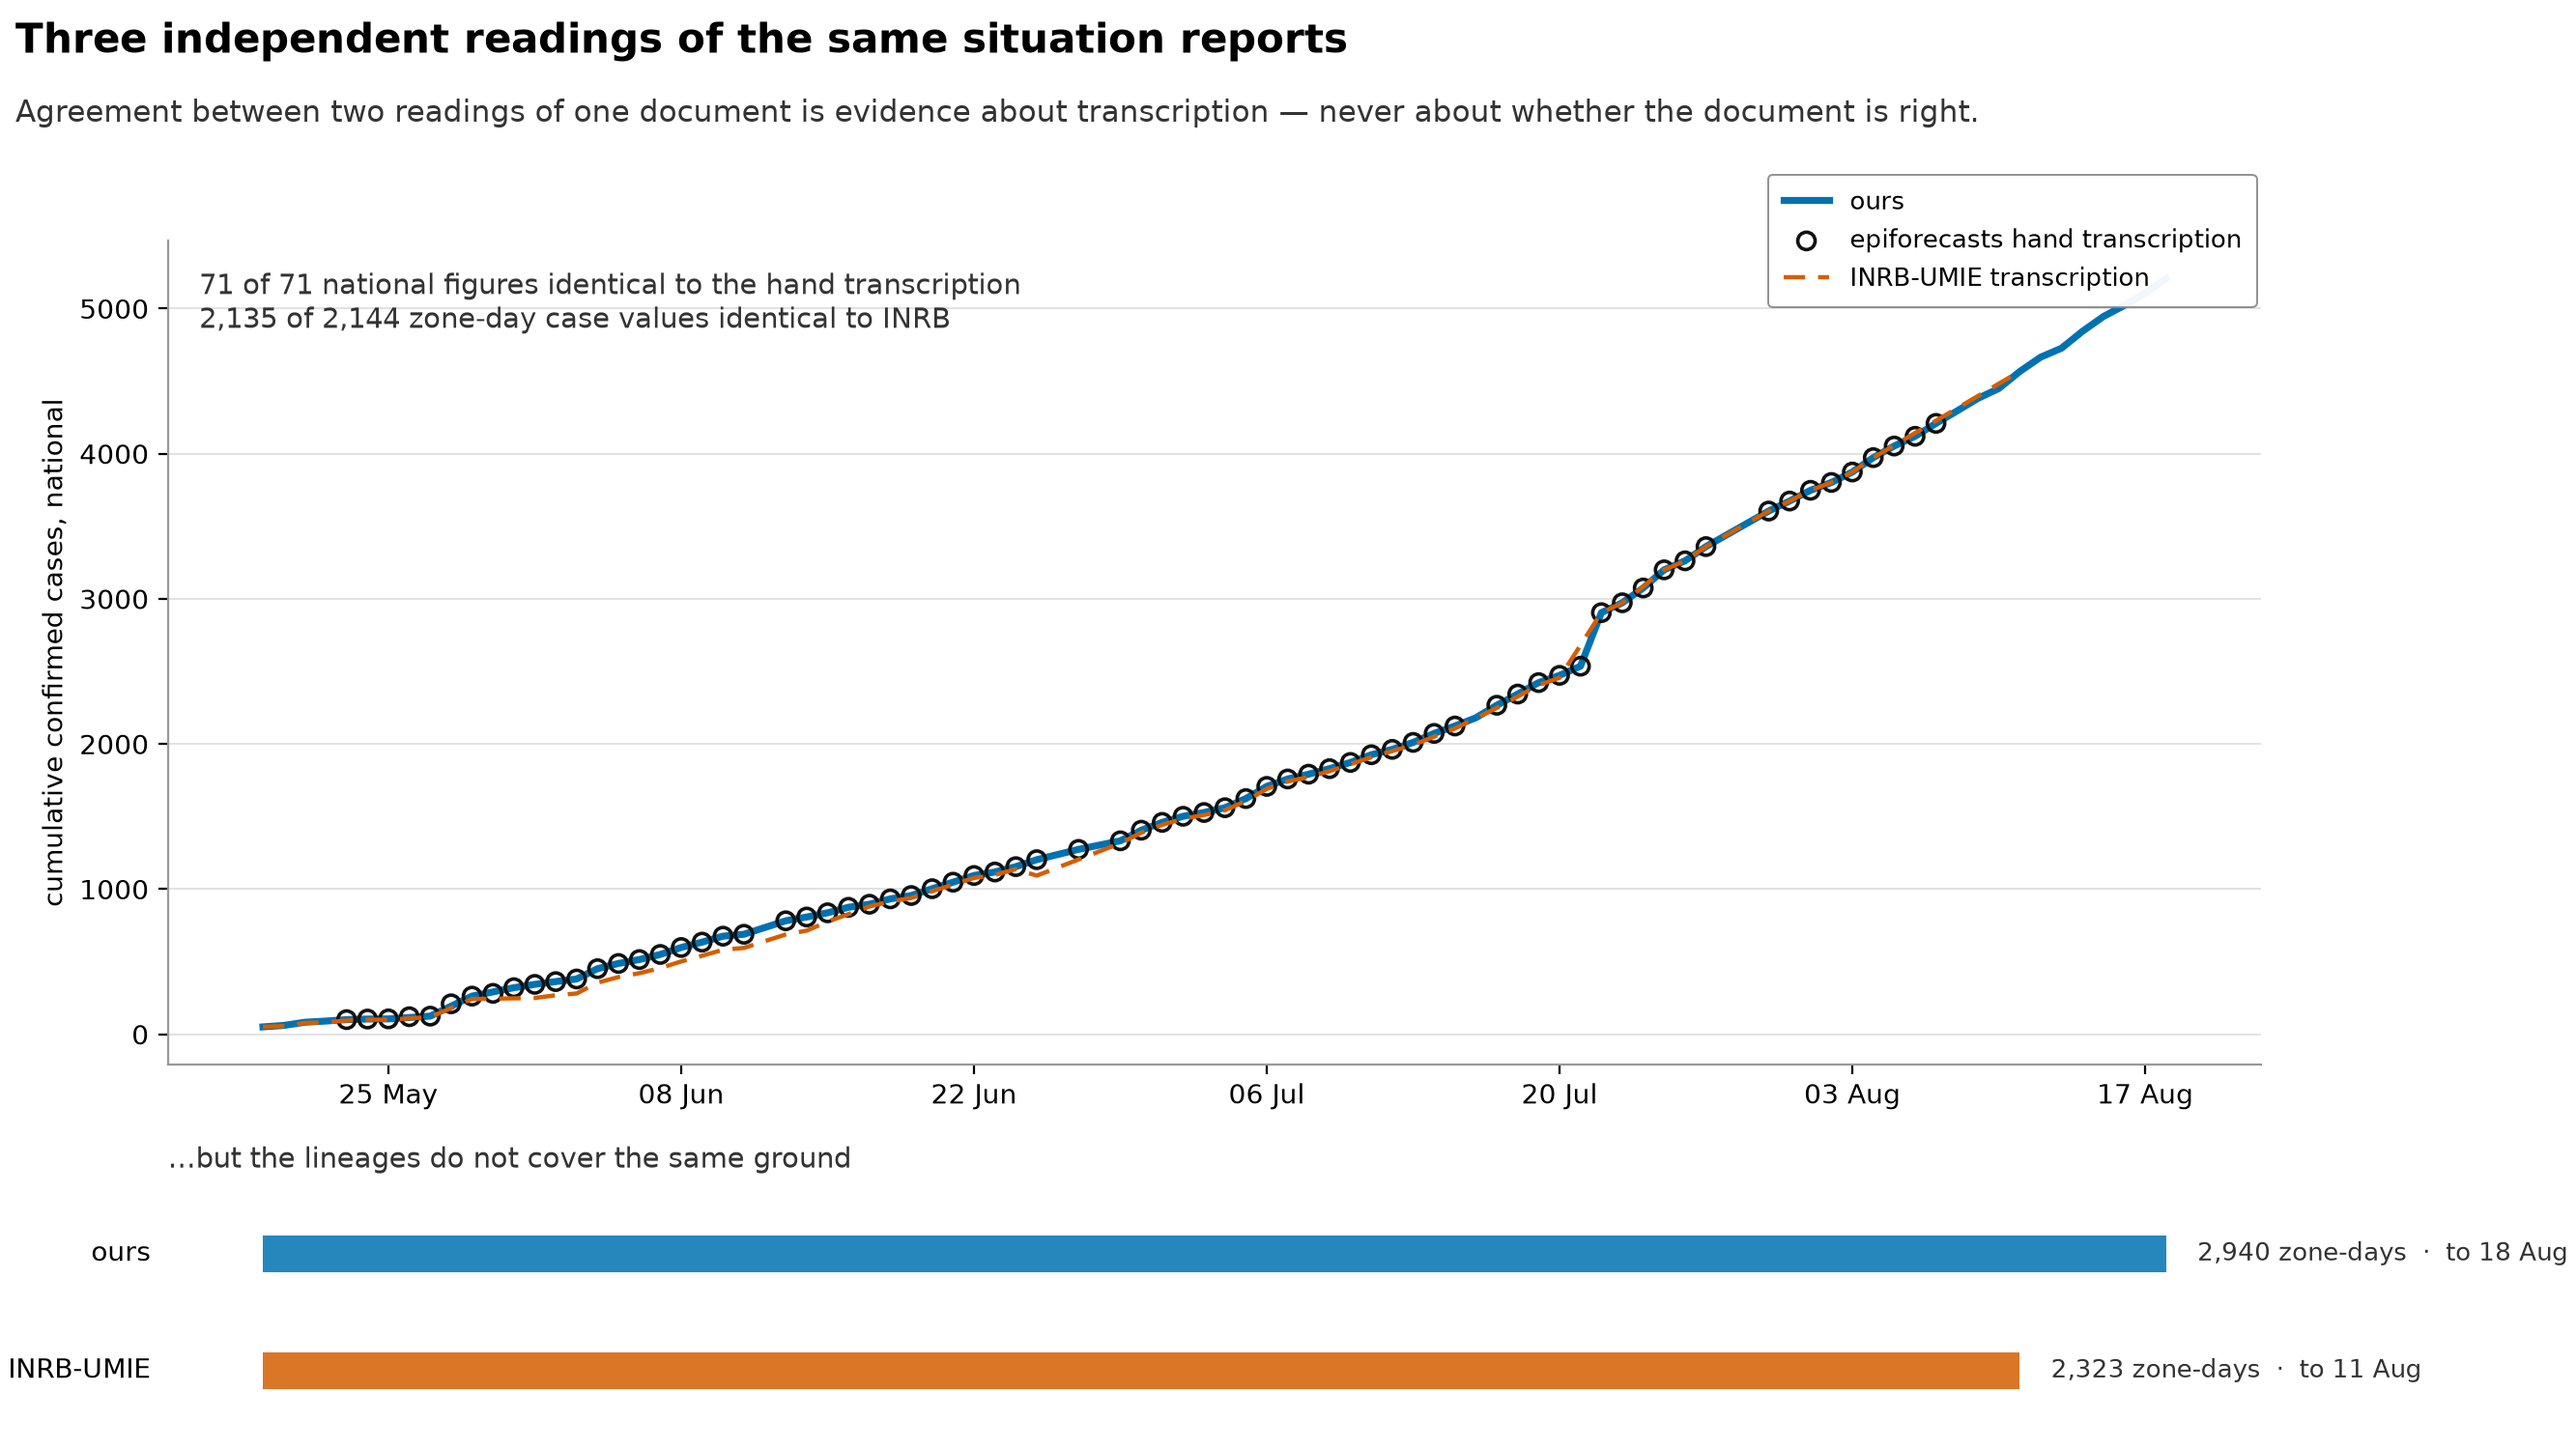
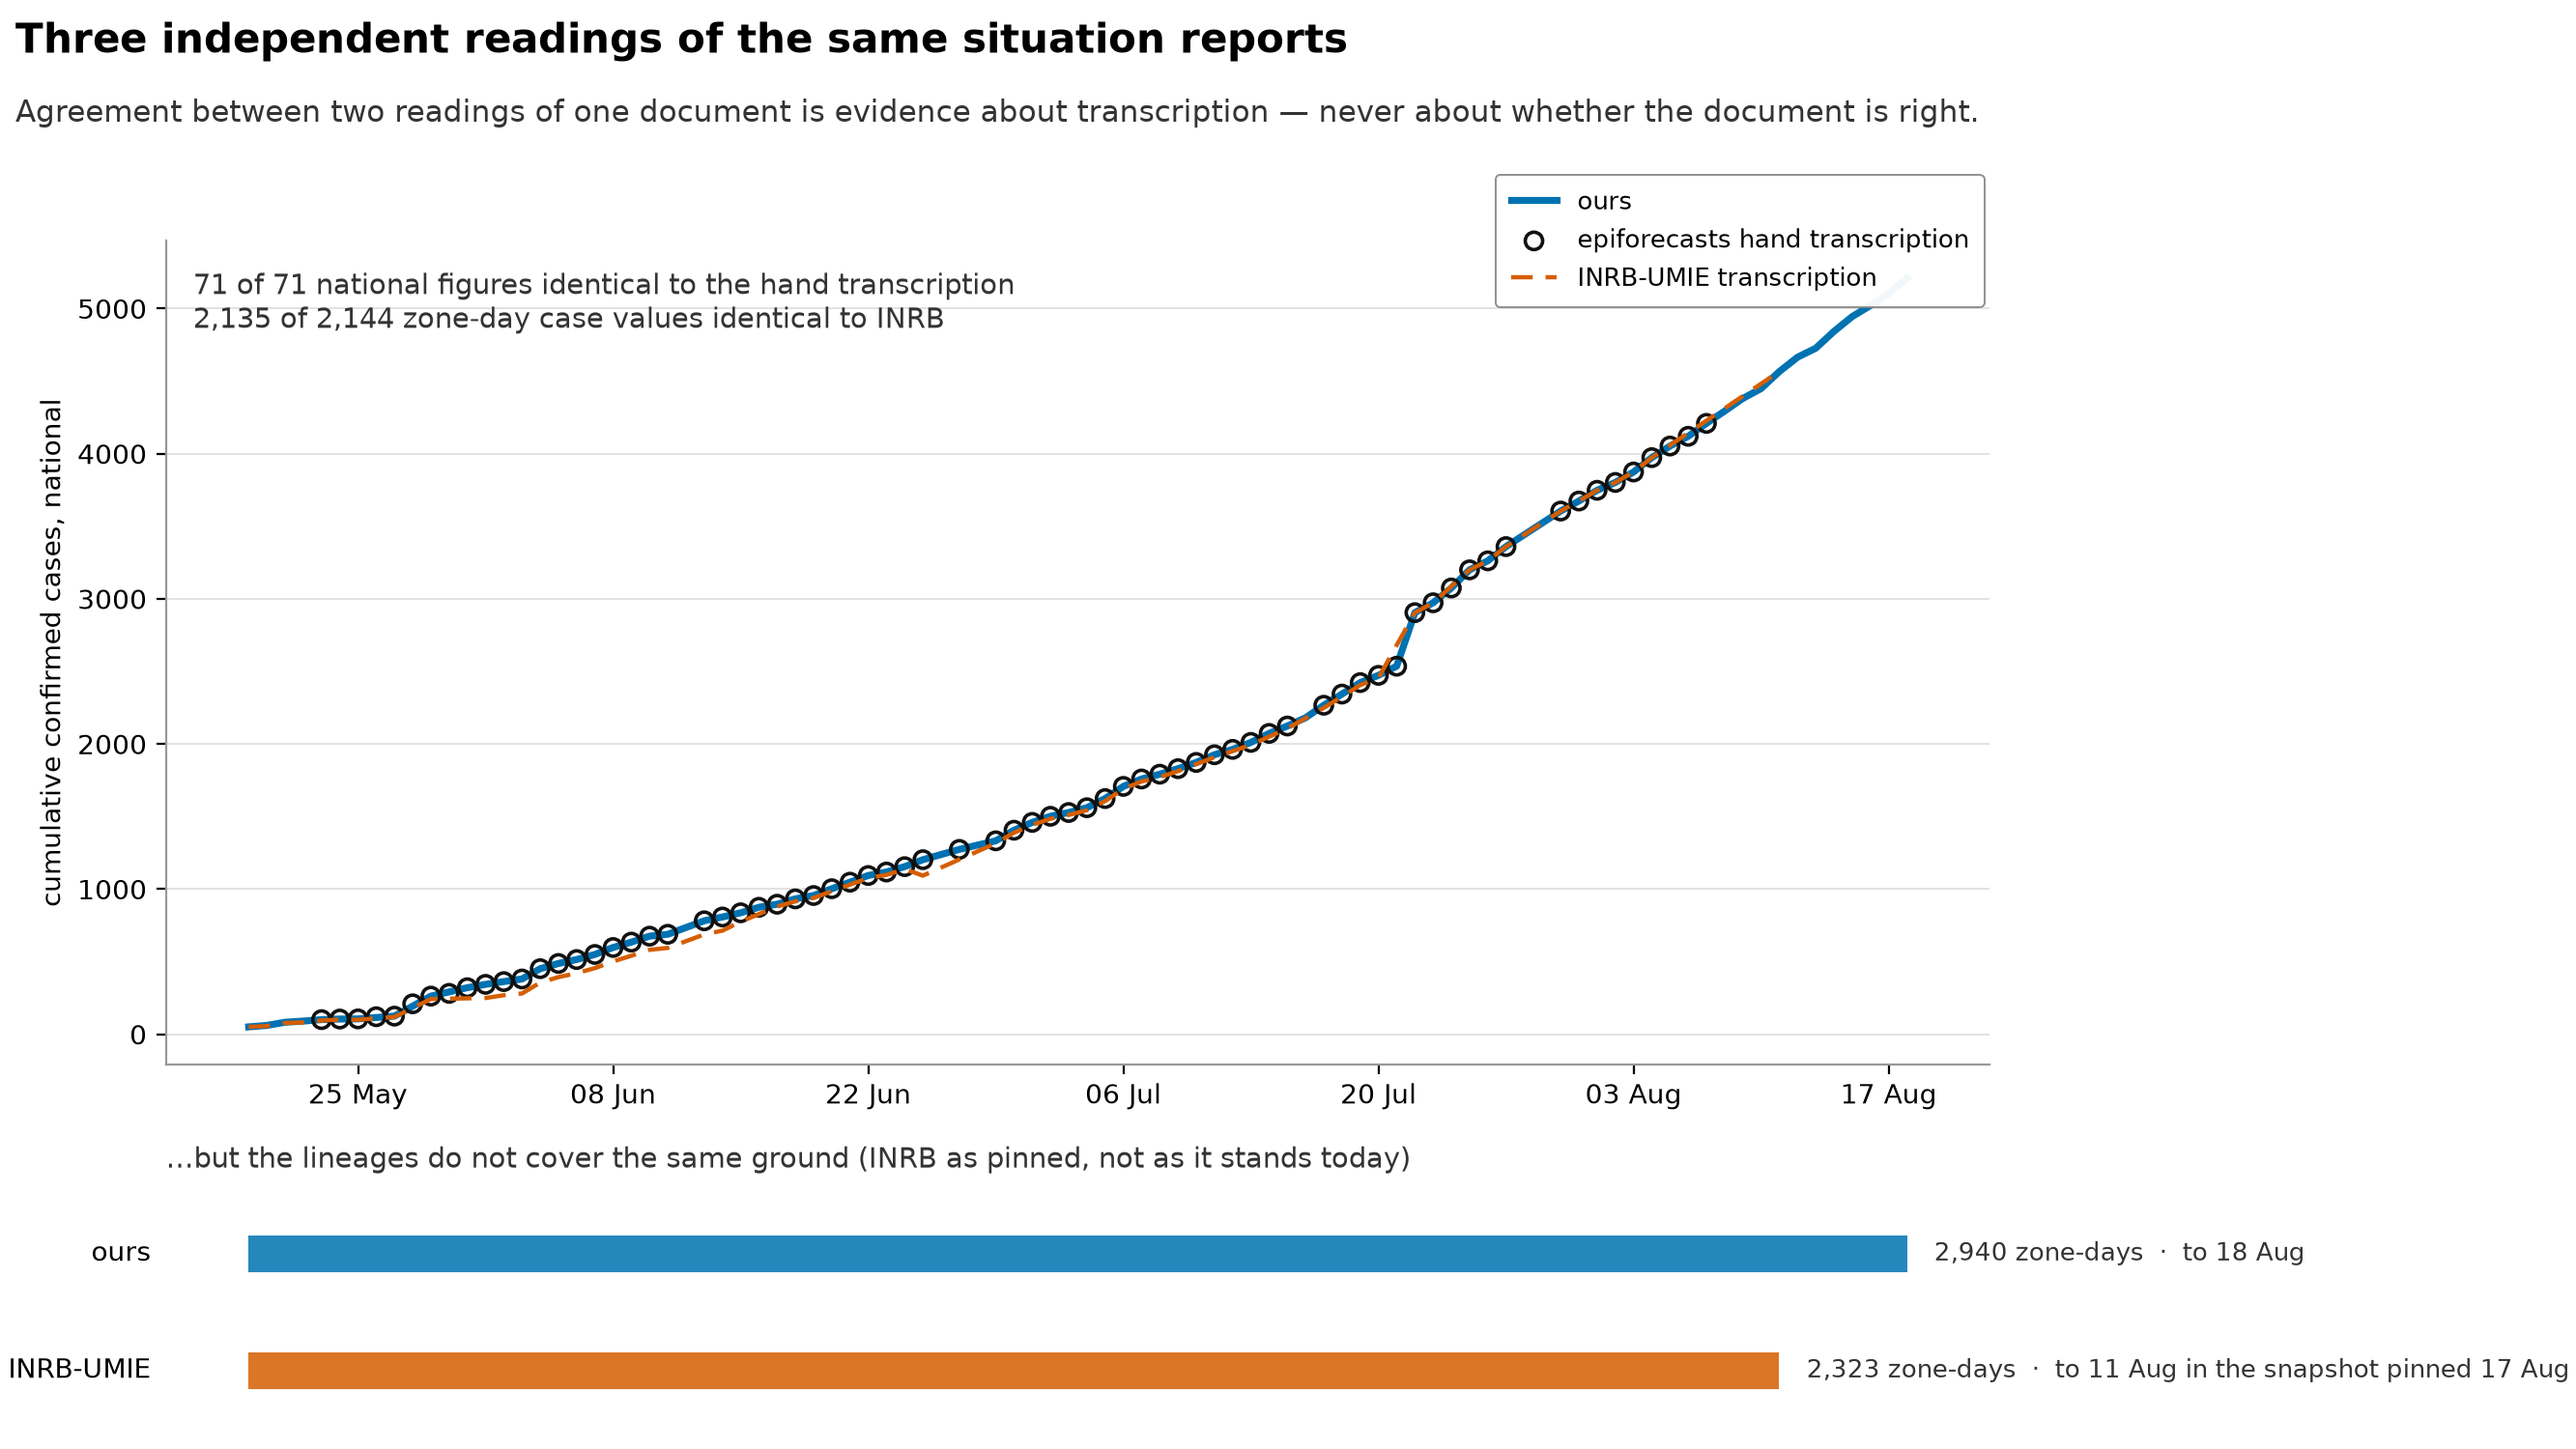
validation: say that the INRB side is a pinned snapshot, not INRB today
The coverage panel claimed we run to 18 August against INRB's 11 August. That
compares our current data against their checkout as pinned in external.lock
-- a commit authored 13 August, locked on the 17th, now ten days old -- and
calls the difference a coverage win. It is not defensible as drawn.

The pin date is now on the label and in the panel title, read from the
lockfile rather than typed, so it cannot drift from the checkout it
describes. Refreshing the pin (`make external-update`) would make the
comparison current; until then the figure says what it is comparing.

Claude-Session: https://claude.ai/code/session_015tkmBJ2UNKTmshByKopqW2

diff --git a/scripts/plot_figures.py b/scripts/plot_figures.py
@@ -735,24 +735,38 @@ def draw_validation(inputs: dict[str, Path], out: Path) -> None:
     # --- coverage, the half of the story agreement cannot tell -------------
     ours_days = (zt.filter(pl.col("level") == "zone")
                  .with_columns(pl.col("date").str.to_date()))
+    # THE INRB SIDE IS A PINNED SNAPSHOT, NOT INRB TODAY. external.lock fixes
+    # their repository at one commit so the comparison is reproducible, which
+    # means their extent here is bounded by when that pin was taken. Reporting
+    # "we run later" without saying so compares our current data against their
+    # stale checkout and calls the difference a coverage win. The pin date is
+    # therefore on the label, and it is read from the lockfile rather than
+    # typed, so it cannot drift from the checkout it describes.
+    pin = "unknown"
+    for line in Path(inputs["lock"]).read_text().splitlines():
+        if line.startswith("BDBV2026-Data"):
+            pin = line.split("\t")[-1].strip()
     rows = [
         ("ours", ours_days["date"].min(), ours_days["date"].max(),
-         im["ours_zone_days"], OURS),
+         im["ours_zone_days"], OURS, "to " + f"{dt.date.fromisoformat(str(ours_days['date'].max())):%d %b}"),
         ("INRB-UMIE", zc["date"].min(), im["inrb_last_date"],
-         im["inrb_zone_days"], INRB),
+         im["inrb_zone_days"], INRB,
+         f"to {dt.date.fromisoformat(im['inrb_last_date']):%d %b} "
+         f"in the snapshot pinned {dt.date.fromisoformat(pin):%d %b}"),
     ]
-    for yi, (name, lo, hi, n, colour) in enumerate(reversed(rows)):
+    for yi, (name, lo, hi, n, colour, extent) in enumerate(reversed(rows)):
         a = mdates.date2num(dt.date.fromisoformat(str(lo)))
         b = mdates.date2num(dt.date.fromisoformat(str(hi)))
         cov.barh(yi, b - a, left=a, height=0.32, color=colour, alpha=0.85)
-        cov.text(b + 1.5, yi, f"{n:,} zone-days  ·  to {dt.date.fromisoformat(str(hi)):%d %b}",
+        cov.text(b + 1.5, yi, f"{n:,} zone-days  ·  {extent}",
                  va="center", ha="left", fontsize=9.5, color="#333333")
         cov.text(-0.008, yi, name, transform=cov.get_yaxis_transform(),
                  ha="right", va="center", fontsize=10)
     cov.set_ylim(-0.6, len(rows) - 0.4)
     cov.set_yticks([])
     cov.set_xlim(ax.get_xlim())
-    cov.set_title("…but the lineages do not cover the same ground",
+    cov.set_title("…but the lineages do not cover the same ground "
+                  "(INRB as pinned, not as it stands today)",
                   loc="left", fontsize=10.5, color="#333333", pad=6)
     for sp in cov.spines.values():
         sp.set_visible(False)
@@ -1387,7 +1401,8 @@ FIGURES = {
                     "scan": "data/build/compare/scan_comparison.csv",
                     "zone_table": "data/build/series/zone_table.csv",
                     "summary": "data/build/series/province_summary.csv",
-                    "meta": "data/build/compare/compare_meta.json"}),
+                    "meta": "data/build/compare/compare_meta.json",
+                    "lock": "external.lock"}),
     "epi_curve": (draw_epi_curve,
                   {"cases": "data/build/streams/cases_daily_national.tsv",
                    "deaths": "data/build/streams/deaths_daily_national.tsv"}),
